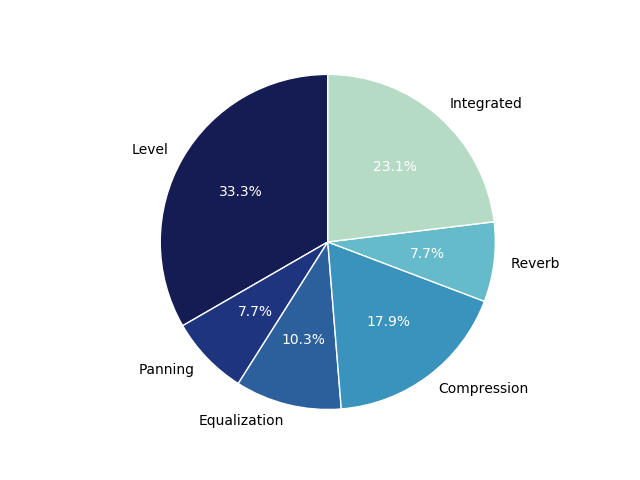
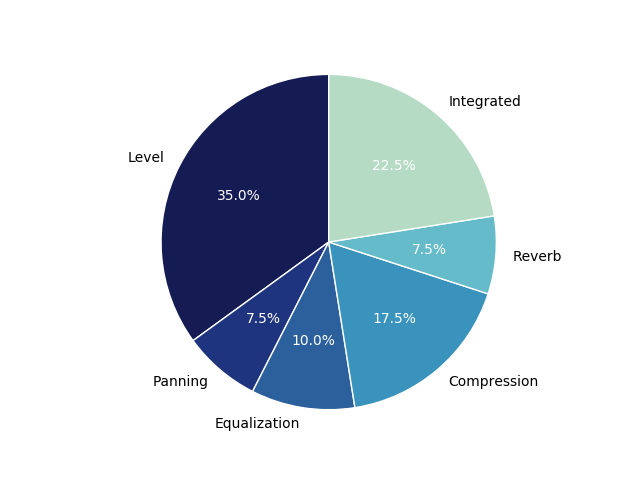
added Automatic masking reduction in balance mixes using evolutionary computing

diff --git a/README.md b/README.md
@@ -14,6 +14,7 @@ Systems that incorporate more than one procees are categorized as `integrated`.
 ## Level
 |Year|Title|Authors|Approach|Resources|
 |---|---|---|---|---|
+|2017|[Automatic masking reduction in balance mixes using evolutionary computing](http://www.aes.org/e-lib/browse.cfm?elib=19210)|N. Jillings, R. Stables|ML|No|
 |2016|[An evolutionary computation approach to intelligent music production, informed by experimentally gathered domain knowledge](http://usir.salford.ac.uk/44278/1/Wilson.pdf)|A. Wilson and B. Fazenda|KE|No|
 |2015|[Comparison of loudness features for automatic level adjustment in mixing](http://www.aes.org/e-lib/browse.cfm?elib=17928)|G. Wichern et al.|KE|No|
 |2014|[The mathematics of mixing](http://www.aes.org/tmpFiles/elib/20171227/17081.pdf)|M. J. Terrell, A. Simpson, and M. Sandler|GT|No|
